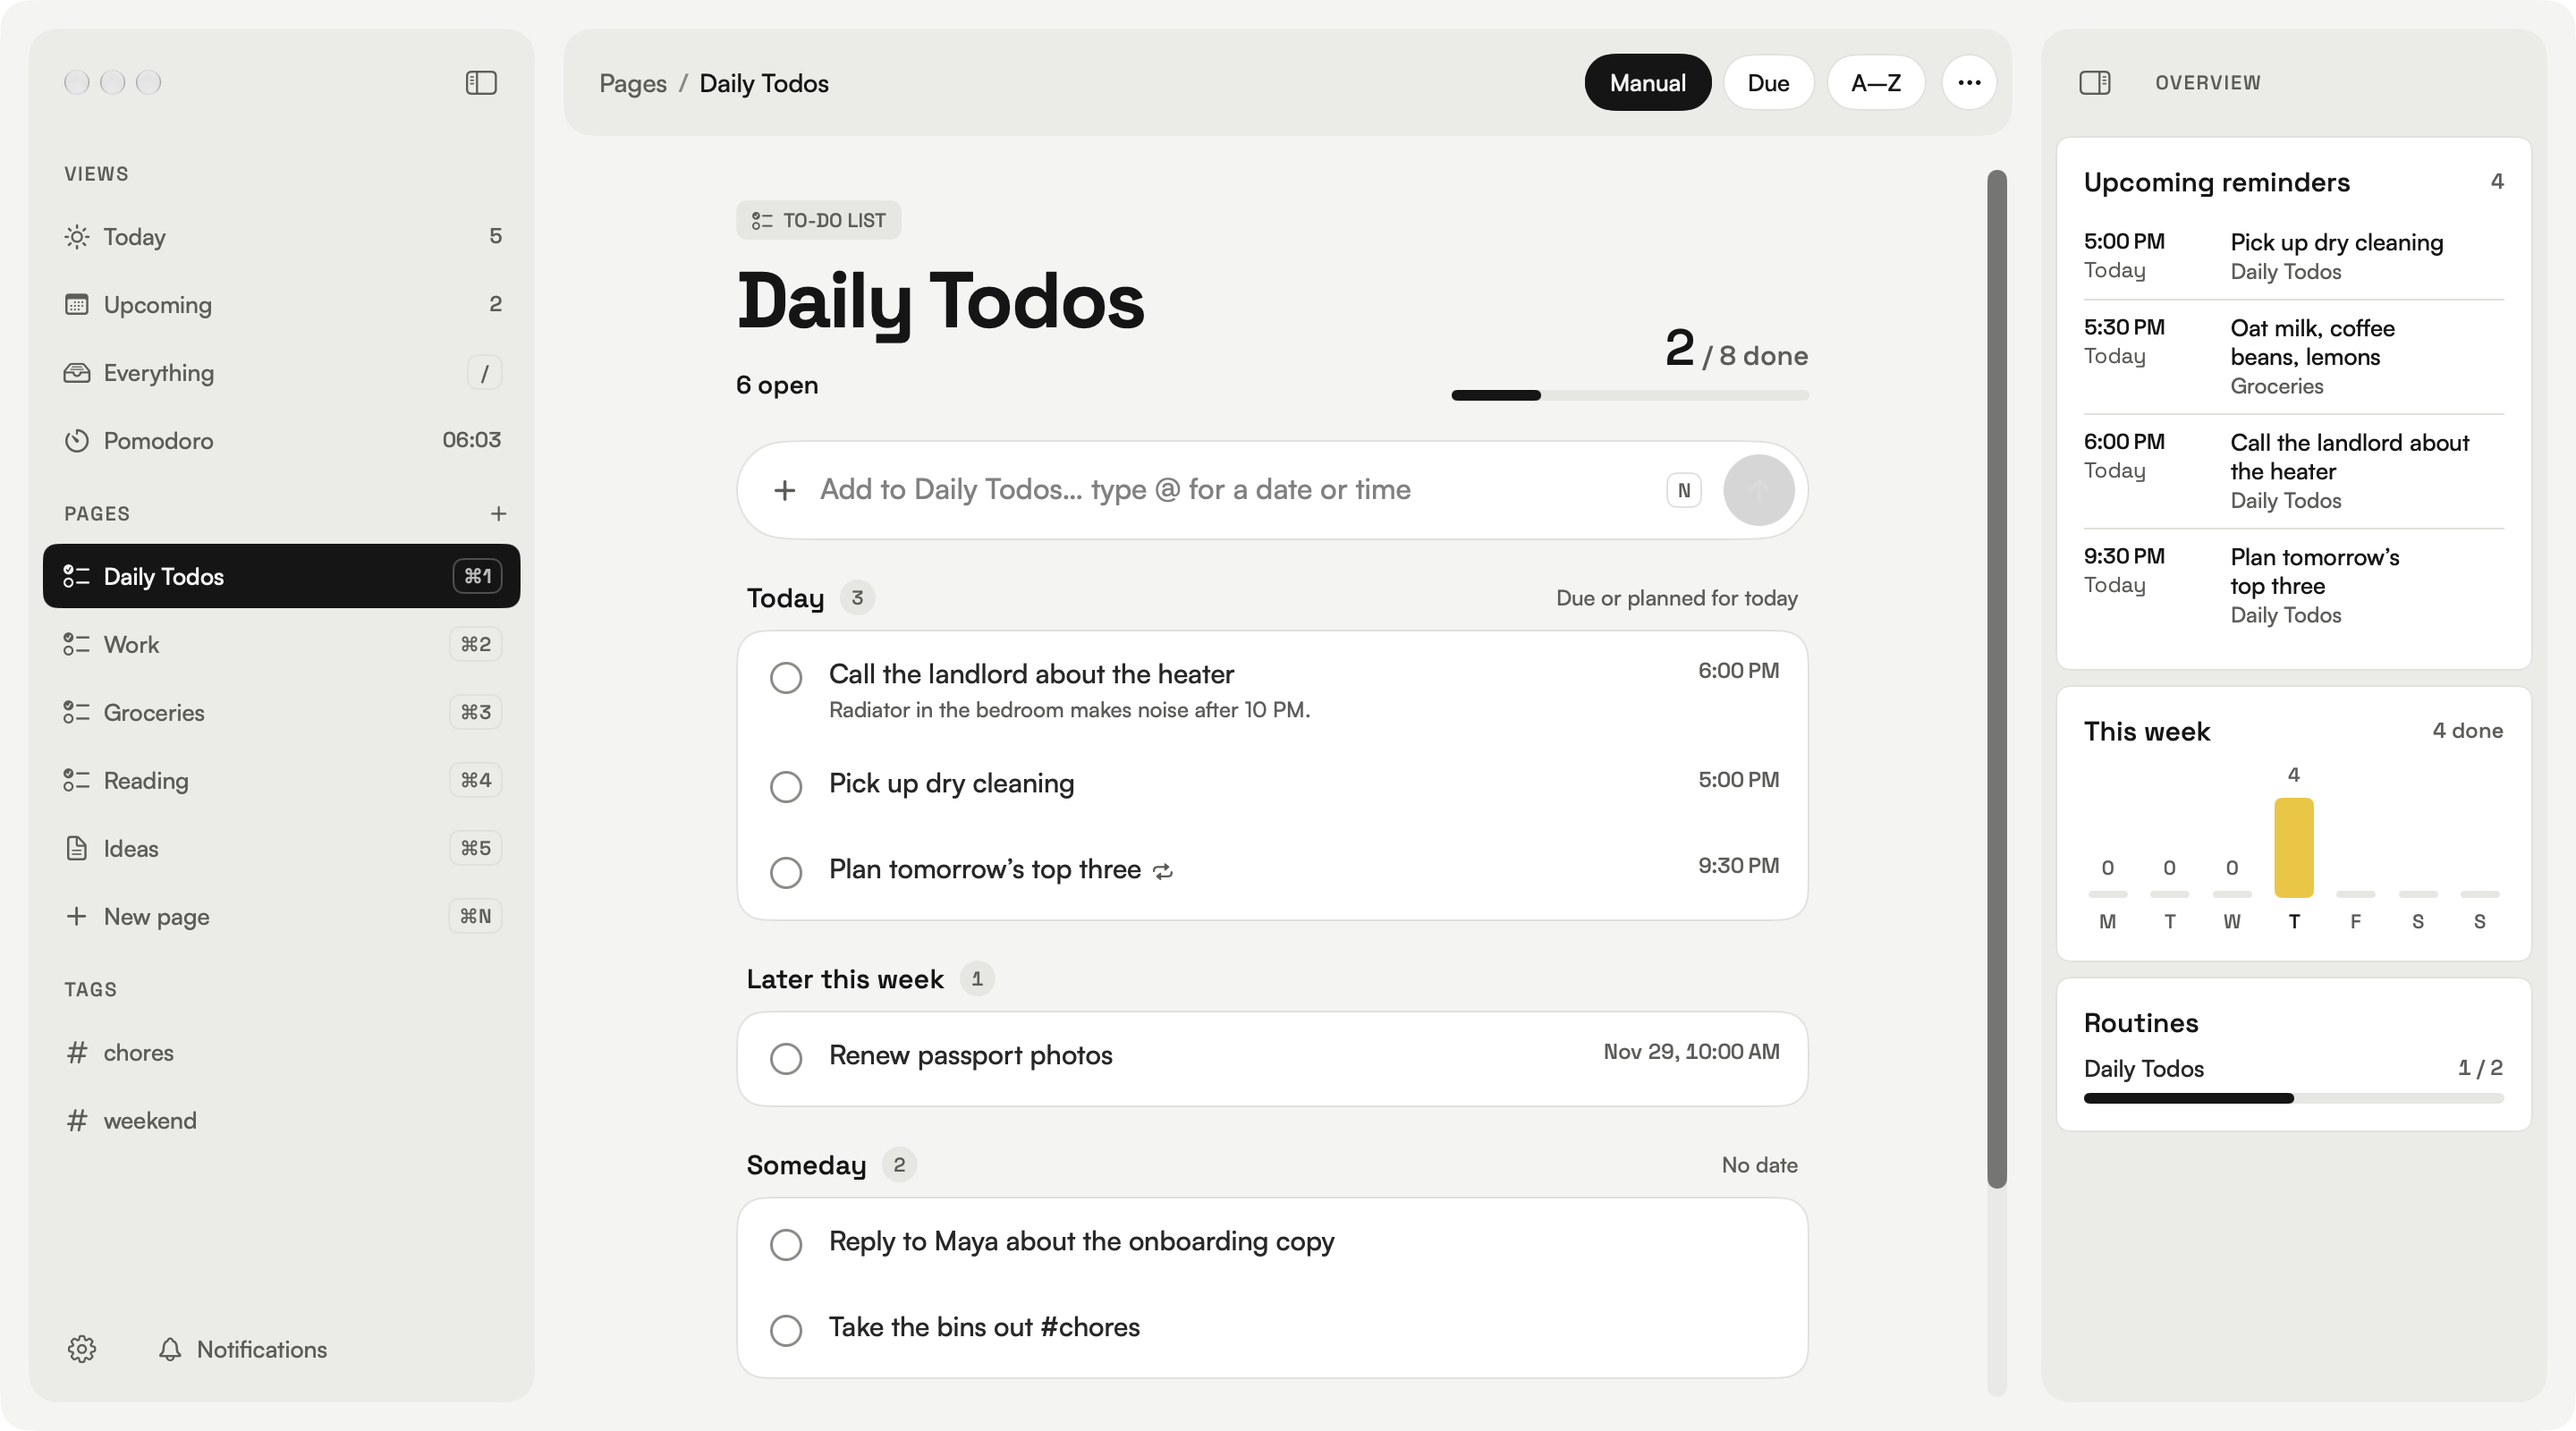
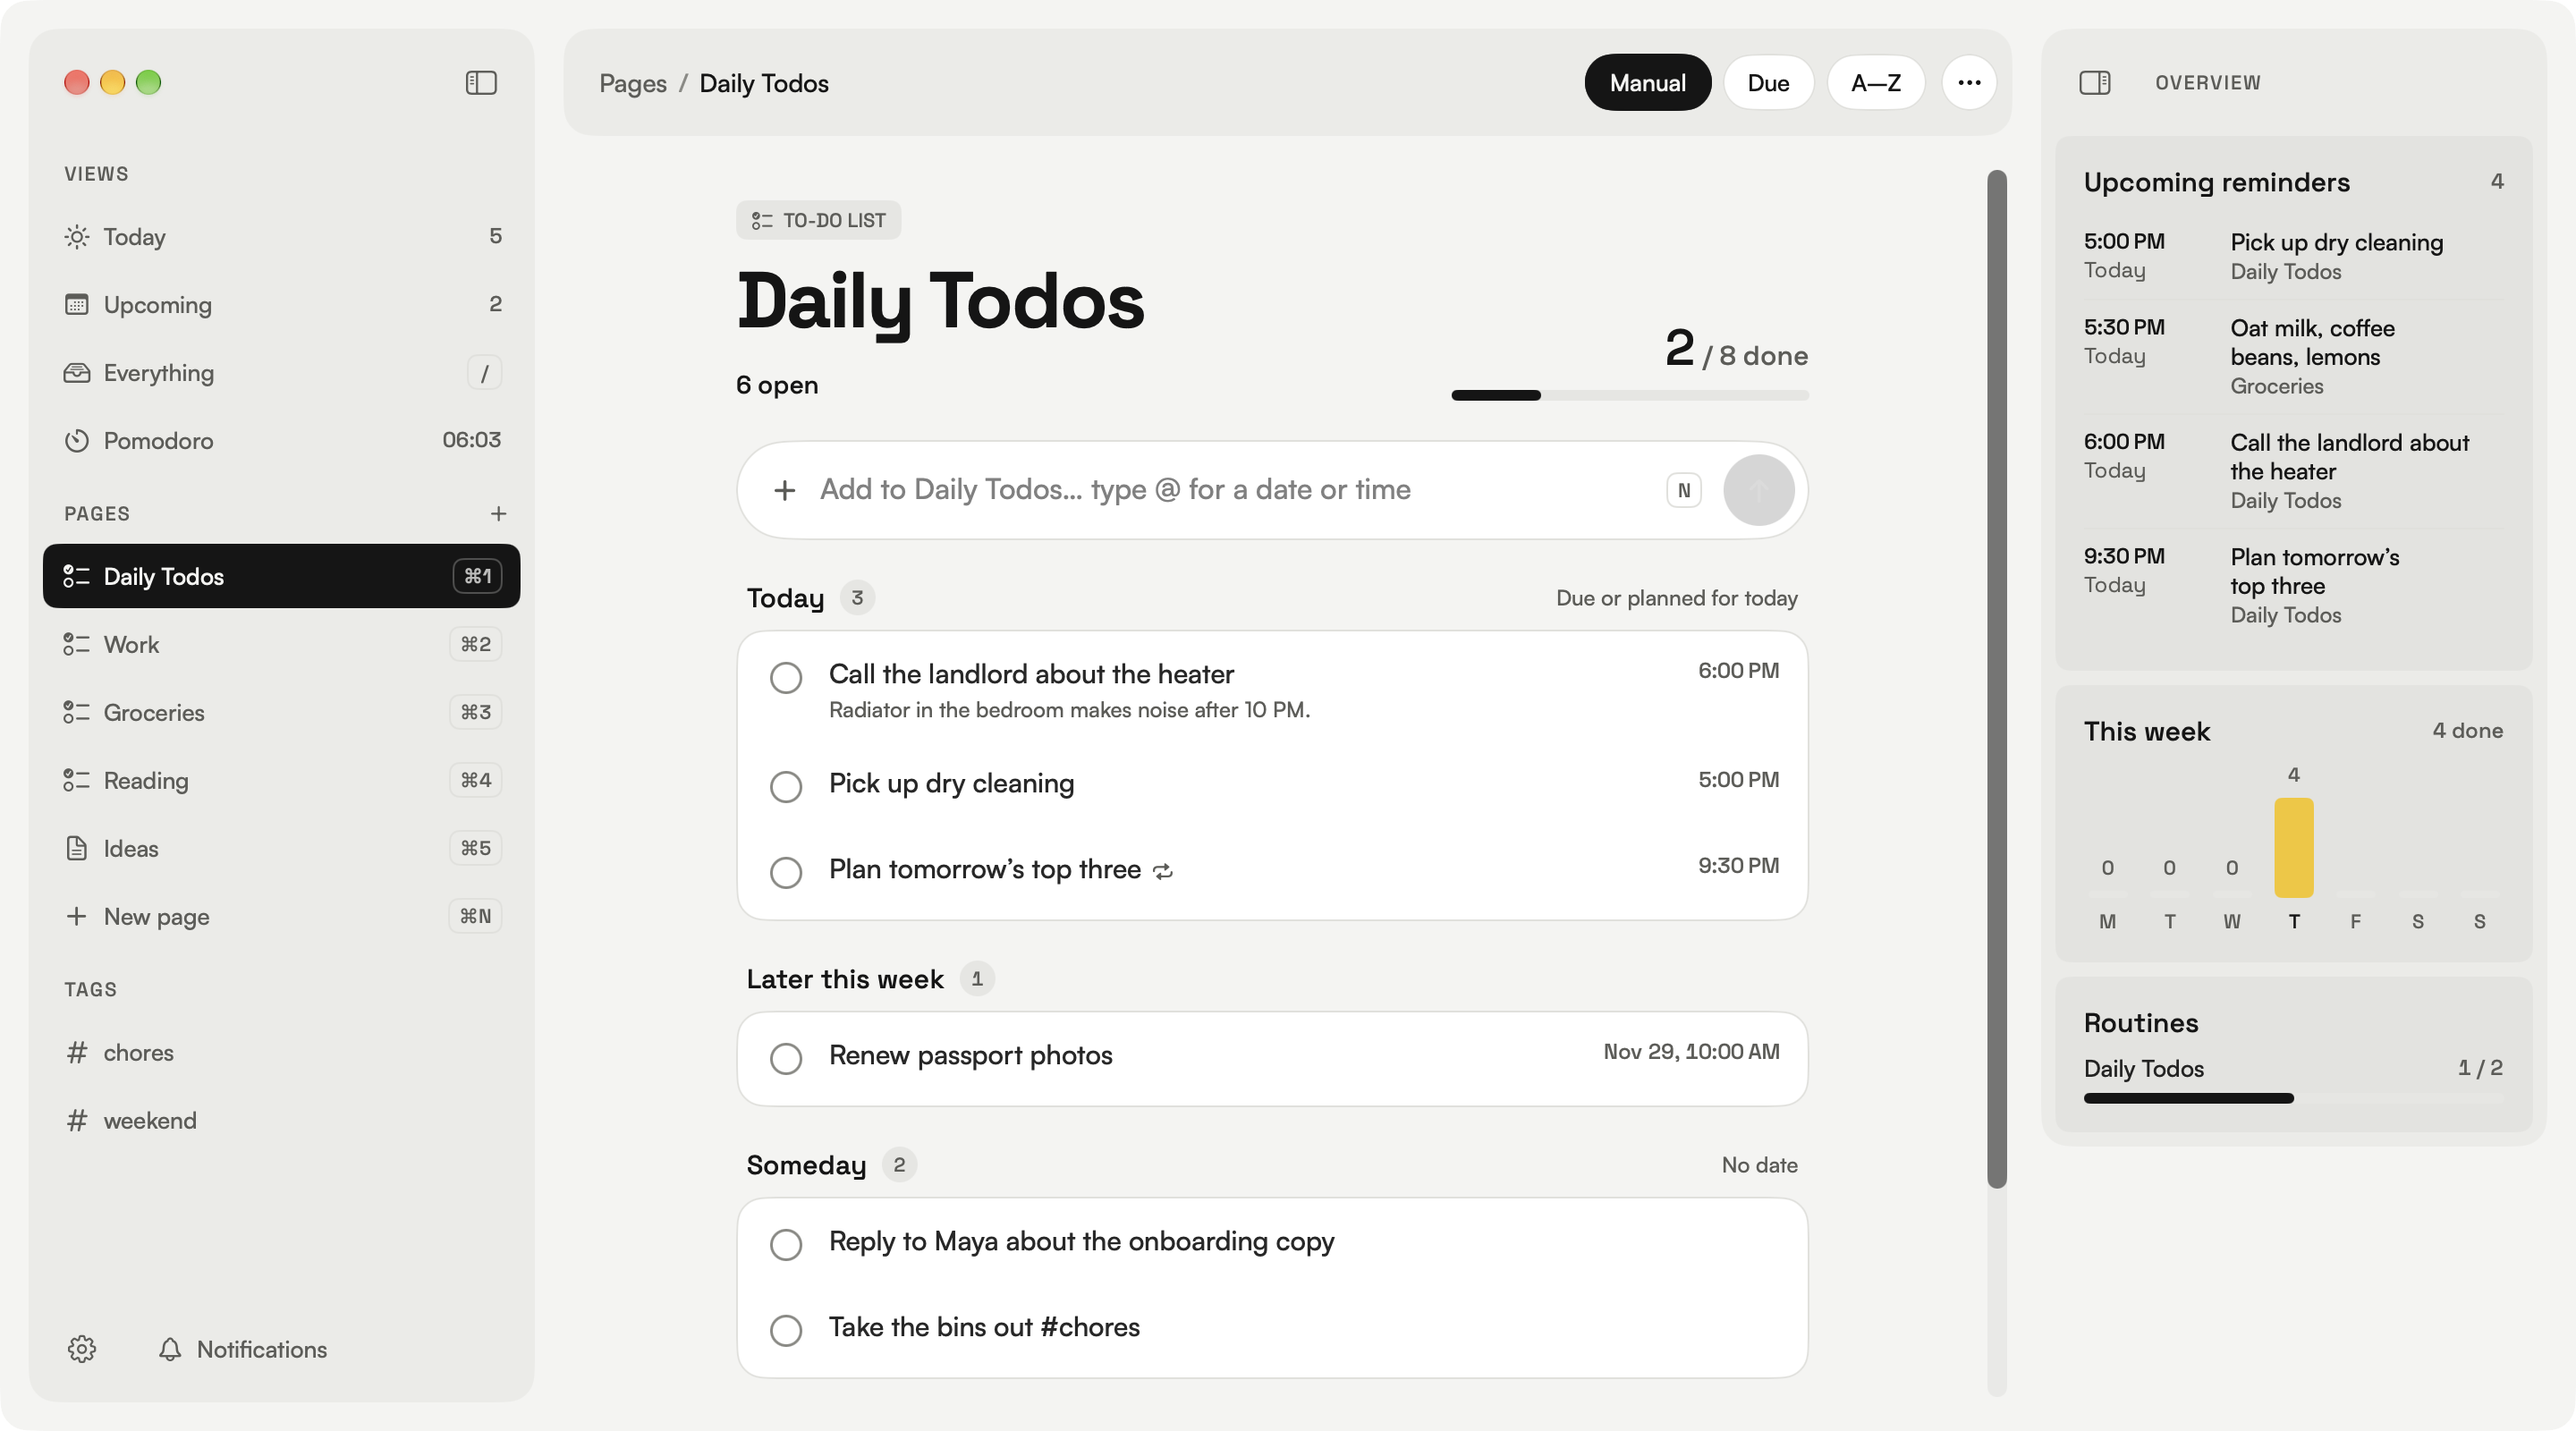
Overview panel hugs its content; flush, tinted cards (#116)

Changed region(s): [[0.7812, 0.0938, 1.0, 0.8125], [0.0312, 0.0312, 0.0625, 0.0625]]

diff --git a/Schema/macOS/Views/Shell/DetailsPanelView.swift b/Schema/macOS/Views/Shell/DetailsPanelView.swift
@@ -2,7 +2,8 @@
 //  DetailsPanelView.swift
 //  Schema
 //
-//  The details panel island on the right (#116), 283pt wide: a header row
+//  The details panel island on the right (#116), 283pt wide and only as
+//  tall as what it shows (it scrolls past the window's height): a header row
 //  with the collapse button and the panel's name, then the overview
 //  (reminders, the week, routines) or a task's cards while a task page is
 //  open (#31). Collapsed (⌘⌥→) it is just its expand button,
@@ -17,6 +18,9 @@ struct DetailsPanelView<Content: View>: View {
     /// "Overview" or "Task".
     let title: String
     @ViewBuilder let content: () -> Content
+
+    /// Height of the panel's content, so the island hugs it (#116).
+    @State private var contentHeight: CGFloat = 400
 
     var body: some View {
         VStack(alignment: .leading, spacing: ShellMetrics.innerGap) {
@@ -35,12 +39,15 @@ struct DetailsPanelView<Content: View>: View {
                     content()
                 }
                 .frame(maxWidth: .infinity, alignment: .leading)
+                .onGeometryChange(for: CGFloat.self) { $0.size.height } action: { contentHeight = $0 }
             }
             .scrollIndicators(.automatic)
-            .frame(maxHeight: .infinity)
+            .scrollBounceBehavior(.basedOnSize)
+            // As tall as what's in it; it scrolls once that's taller than the window.
+            .frame(maxHeight: contentHeight)
         }
         .frame(width: ShellMetrics.detailsWidth - ShellMetrics.islandPadding * 2)
-        .frame(maxHeight: .infinity)
         .shellIsland()
+        .frame(maxHeight: .infinity, alignment: .top)
     }
 }

diff --git a/Schema/Core/Design/Components/SchemaContainers.swift b/Schema/Core/Design/Components/SchemaContainers.swift
@@ -13,6 +13,7 @@ struct SchemaCardModifier: ViewModifier {
     var padding: CGFloat = 16
     var cornerRadius: CGFloat = 16
     var fill: Color = SchemaTheme.surface
+    var bordered = true
 
     func body(content: Content) -> some View {
         content
@@ -23,15 +24,15 @@ struct SchemaCardModifier: ViewModifier {
             )
             .overlay(
                 RoundedRectangle(cornerRadius: cornerRadius, style: .continuous)
-                    .strokeBorder(SchemaTheme.line, lineWidth: 1)
+                    .strokeBorder(bordered ? SchemaTheme.line : .clear, lineWidth: 1)
             )
     }
 }
 
 extension View {
     /// A surface card: panels, stat tiles, task groups, dialogs.
-    func schemaCard(padding: CGFloat = 16, cornerRadius: CGFloat = 16, fill: Color = SchemaTheme.surface) -> some View {
-        modifier(SchemaCardModifier(padding: padding, cornerRadius: cornerRadius, fill: fill))
+    func schemaCard(padding: CGFloat = 16, cornerRadius: CGFloat = 16, fill: Color = SchemaTheme.surface, bordered: Bool = true) -> some View {
+        modifier(SchemaCardModifier(padding: padding, cornerRadius: cornerRadius, fill: fill, bordered: bordered))
     }
 }
 

diff --git a/Schema/macOS/Views/SchemaTheme.swift b/Schema/macOS/Views/SchemaTheme.swift
@@ -21,8 +21,9 @@ enum SchemaTheme {
     static let surface = color(light: 0xFFFFFF, dark: 0x1A1A1A)
     /// The window's floating islands (#116): sidebar, page header, details panel.
     static let island = color(light: 0xEBEBE8, dark: 0x1A1A1A)
-    /// Cards inside an island, one step up from it.
-    static let islandCard = color(light: 0xFFFFFF, dark: 0x252525)
+    /// Cards inside an island: flush with it, only a faint tint apart
+    /// (ink at 3.5% over the island), with no border.
+    static let islandCard = color(light: 0xE3E3E0, dark: 0x222222)
     /// Hovered and selected rows. Selection is neutral, never tinted.
     static let surfaceHover = color(light: 0xE6E6E3, dark: 0x252525)
 

diff --git a/Schema/macOS/Views/TaskPage/TaskPagePanel.swift b/Schema/macOS/Views/TaskPage/TaskPagePanel.swift
@@ -146,7 +146,7 @@ struct TaskPagePanel: View {
             content()
         }
         .frame(maxWidth: .infinity, alignment: .leading)
-        .schemaCard(padding: 16, cornerRadius: ShellMetrics.innerRadius, fill: SchemaTheme.islandCard)
+        .schemaCard(padding: 16, cornerRadius: ShellMetrics.innerRadius, fill: SchemaTheme.islandCard, bordered: false)
     }
 }
 

diff --git a/Schema/macOS/Views/Today/OverviewPanel.swift b/Schema/macOS/Views/Today/OverviewPanel.swift
@@ -112,7 +112,7 @@ struct OverviewPanel: View {
             content()
         }
         .frame(maxWidth: .infinity, alignment: .leading)
-        .schemaCard(padding: 16, cornerRadius: ShellMetrics.innerRadius, fill: SchemaTheme.islandCard)
+        .schemaCard(padding: 16, cornerRadius: ShellMetrics.innerRadius, fill: SchemaTheme.islandCard, bordered: false)
     }
 }
 

diff --git a/CHANGELOG.md b/CHANGELOG.md
@@ -6,7 +6,7 @@ All notable changes to Schema are documented in this file.
 
 ### Changed
 
-- The window is laid out as floating islands on a 16/8 grid (#116). The sidebar, each page's header and the overview panel are rounded islands 16 pt from the window edges and 16 pt apart, with 8 pt padding and 8 pt corners inside, and 44 pt buttons in their header and footer rows. The window controls sit inside the sidebar's header row. Collapsed, the sidebar is a small pill with the window controls and its expand button (the floating bar of icons is gone), and the overview is its expand button alone. Every page puts where you are and its actions in a header island at the top: sort and page options, Hide done, Quick note, New timer, and previous and next on a task page. Page content is centred in a 600 pt column on every page, Settings included. Settings and Notifications moved to the sidebar's bottom row, and sidebar rows have 8 pt corners.
+- The window is laid out as floating islands on a 16/8 grid (#116). The sidebar, each page's header and the overview panel are rounded islands 16 pt from the window edges and 16 pt apart, with 8 pt padding and 8 pt corners inside, and 44 pt buttons in their header and footer rows. The window controls sit inside the sidebar's header row. Collapsed, the sidebar is a small pill with the window controls and its expand button (the floating bar of icons is gone), and the overview is its expand button alone. Every page puts where you are and its actions in a header island at the top: sort and page options, Hide done, Quick note, New timer, and previous and next on a task page. Page content is centred in a 600 pt column on every page, Settings included. Settings and Notifications moved to the sidebar's bottom row, and sidebar rows have 8 pt corners. The overview panel is only as tall as what it shows (it scrolls if that is taller than the window), and its cards sit flush with it, set apart by a faint tint instead of a white fill and border.
 
 ## [0.5.6] — 2026-11-23
 
